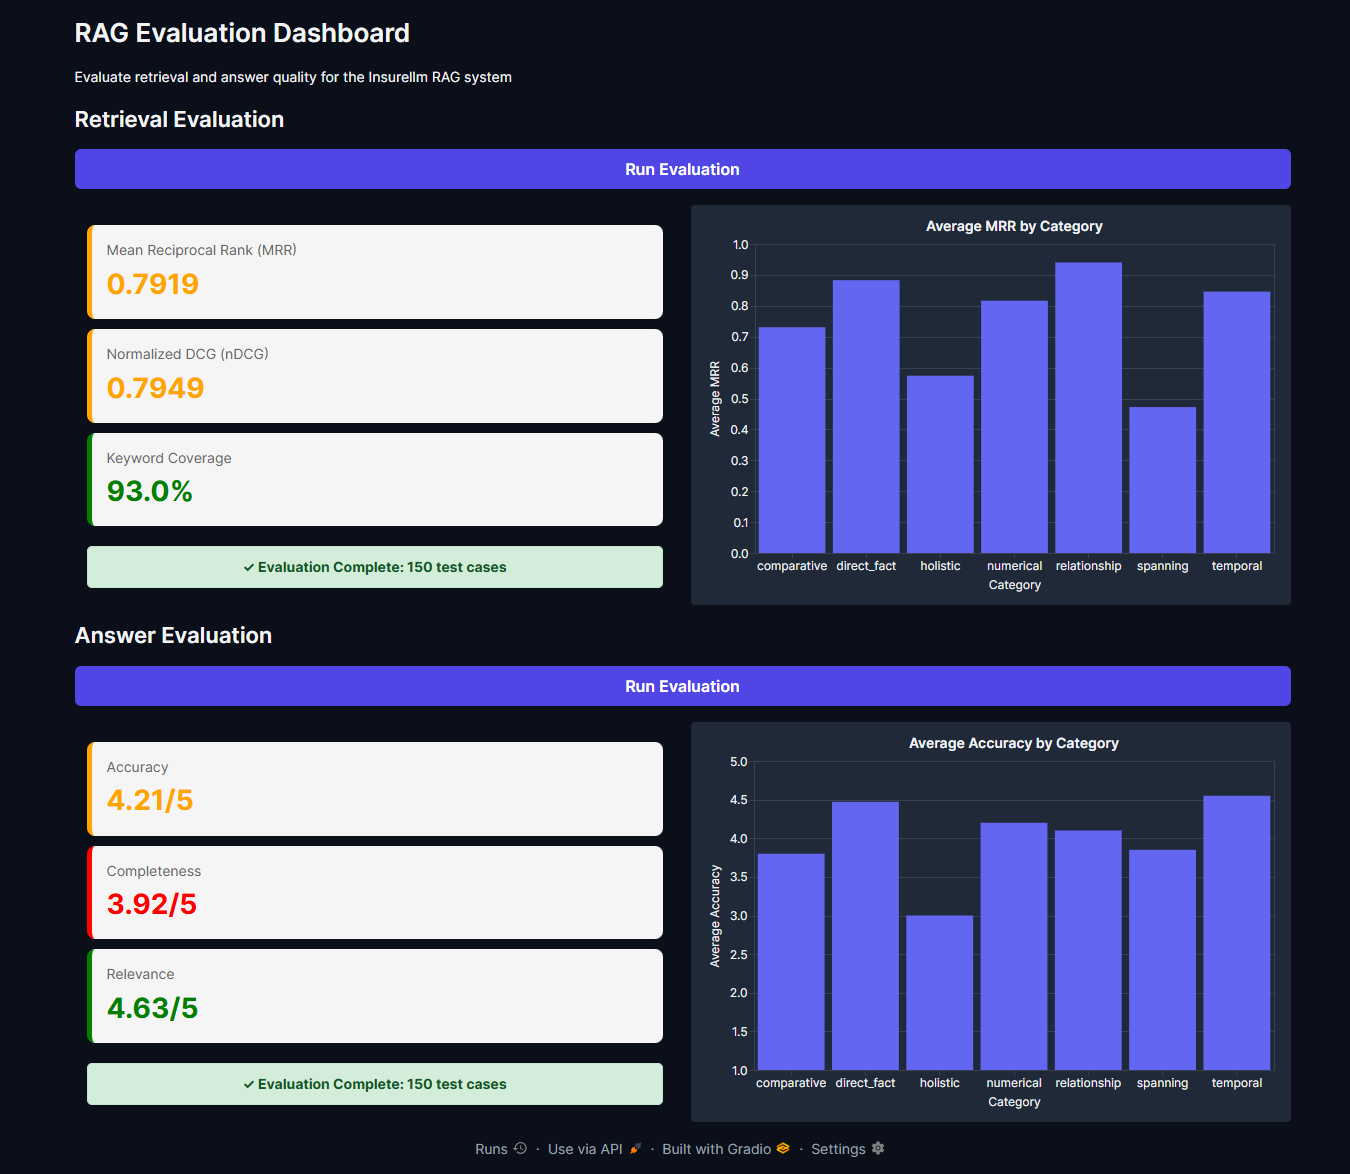
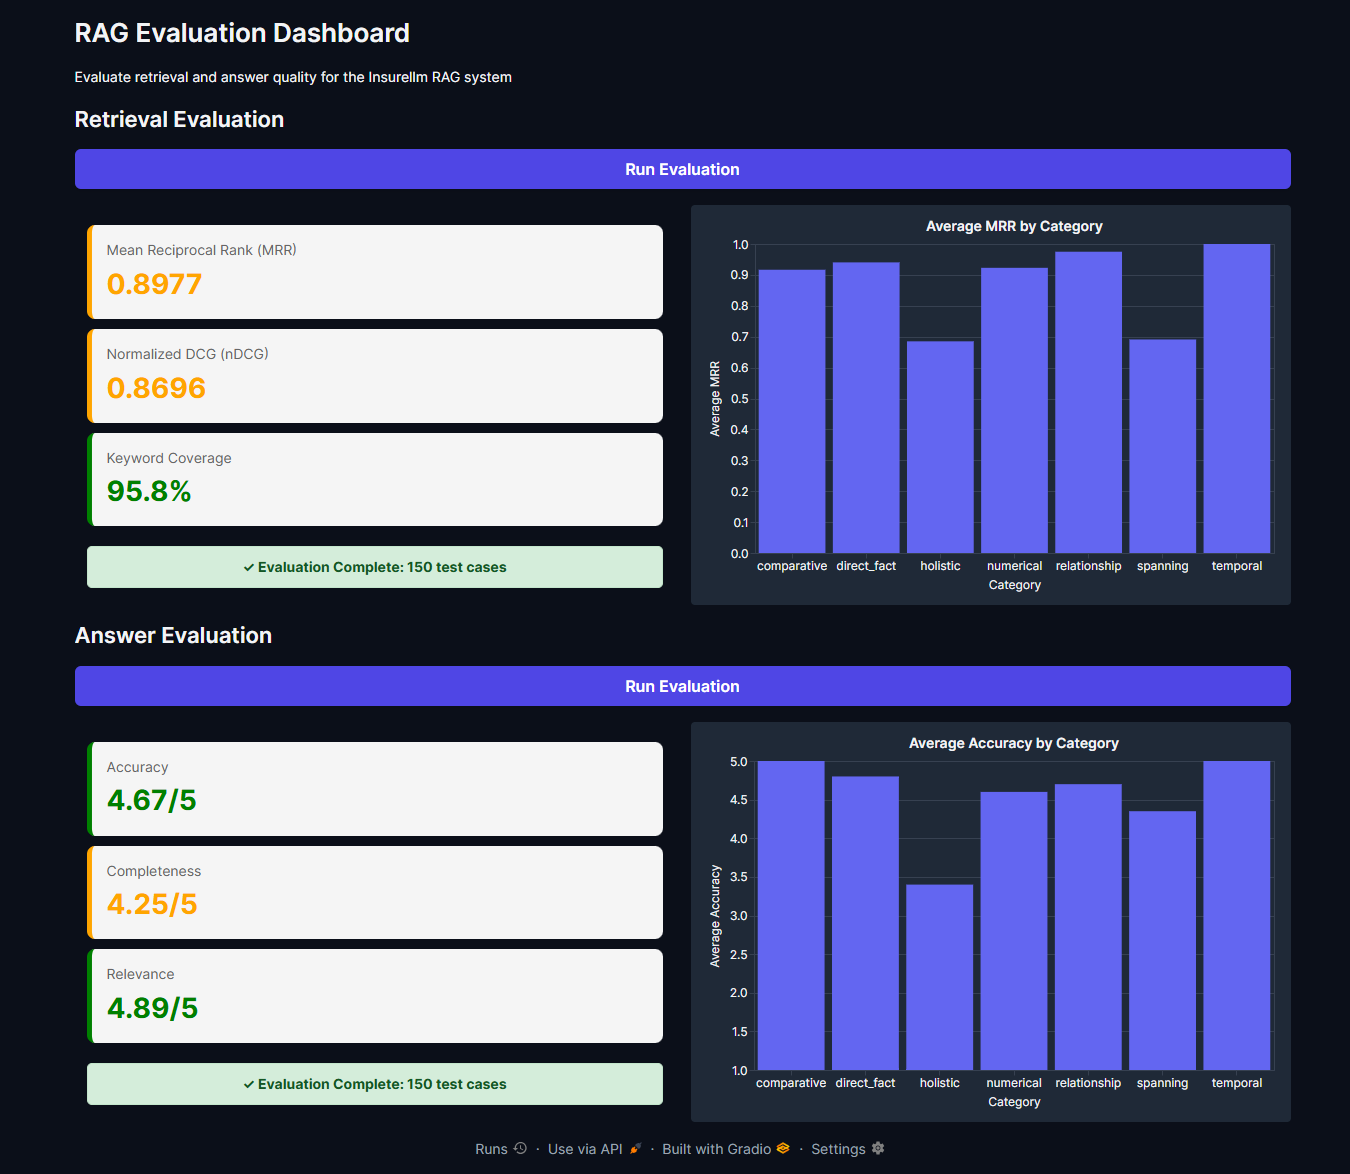
docs: update README with pro pipeline eval results

diff --git a/README.md b/README.md
@@ -69,19 +69,24 @@ Opens a Gradio dashboard with two sections, Retrieval and Answer, each with its 
 
 ### Results
 
-> These results are from the earlier basic pipeline (fixed-size chunks, no query rewriting or reranking). Re-run `uv run evaluator` to get numbers for the current pipeline.
-
-A full run over all 150 test cases with the basic pipeline:
+A full run over all 150 test cases with the default configuration:
 
 ![RAG evaluation dashboard](docs/evaluator-dashboard.png)
 
-| Retrieval | Score | Answer | Score |
-|---|---|---|---|
-| MRR | 0.7919 | Accuracy | 4.21 / 5 |
-| nDCG | 0.7949 | Completeness | 3.92 / 5 |
-| Keyword coverage | 93.0% | Relevance | 4.63 / 5 |
+Compared with the earlier basic pipeline (500-character chunks, no query rewriting or reranking):
 
-Performance is strongest on `direct_fact`, `temporal`, and `relationship` questions. The weakest categories are `spanning` (lowest MRR, ~0.47) and `holistic` (lowest MRR at ~0.57 and lowest accuracy at ~3.0 / 5). Both need information pulled from many documents at once. Ten 500-character chunks only cover a small part of that.
+| Metric | Basic | Current |
+|---|---|---|
+| MRR | 0.7919 | 0.8977 |
+| nDCG | 0.7949 | 0.8696 |
+| Keyword coverage | 93.0% | 95.8% |
+| Accuracy | 4.21 / 5 | 4.67 / 5 |
+| Completeness | 3.92 / 5 | 4.25 / 5 |
+| Relevance | 4.63 / 5 | 4.89 / 5 |
+
+Every metric improved. The biggest gains are on the categories that were weakest before: `spanning` MRR rose from ~0.47 to ~0.69 and `holistic` from ~0.57 to ~0.68. `temporal` and `comparative` questions now score 5 / 5 accuracy on average.
+
+`holistic` is still the weakest category (~3.4 / 5 accuracy). These questions need information pulled from many documents at once, and ten chunks still cover only part of it.
 
 ## Project structure
 
